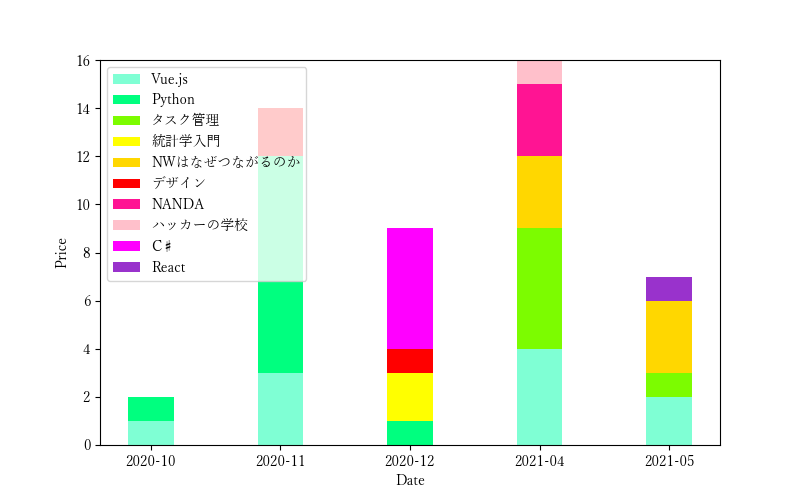
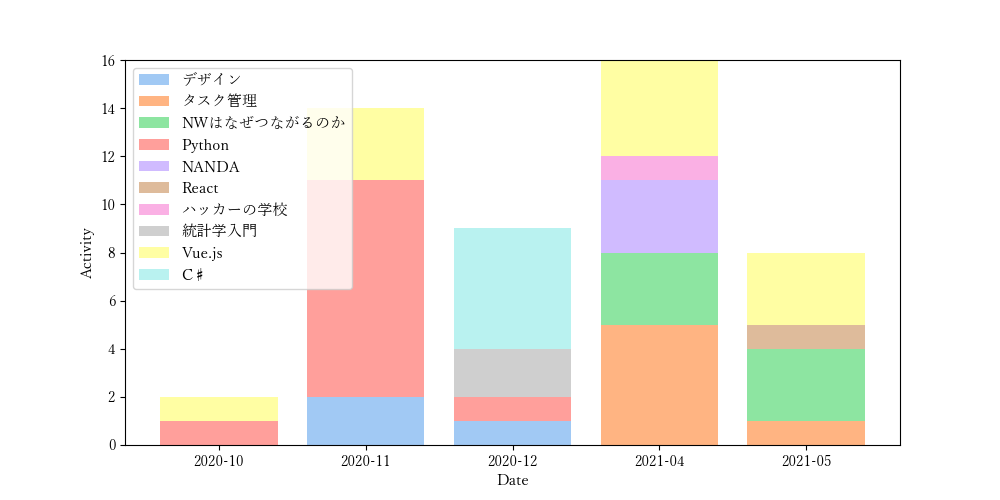
commit

diff --git a/app/static/main.js b/app/static/main.js
@@ -508,10 +508,15 @@ const router = new VueRouter({
             component: {
                 template: "#graph",
                 delimiters: ["[[", "]]"],
+                data: function () {
+                    return {
+                    }
+                },
                 methods: {
                     Axios: function () {
                         axios.post("http://localhost:8000/app/graph")
                             .then(res => {
+                                alert("OK!");
                             })
                             .catch(res => {
                                 test2(res);
@@ -519,6 +524,7 @@ const router = new VueRouter({
                     }
                 },
                 created: function () {
+
                 }
             }
         },

diff --git a/app/templates/index.html b/app/templates/index.html
@@ -381,8 +381,8 @@
     <!--11111111111111111111111111111111111111111111111111111111111111111111111111111111111111-->
     <script type="text/x-template" id="graph">
         <section>
-            <h3>グラフ出力</h3>
-            <img src="{% static 'output.png' %}" @click="Axios" class="graph"/>
+            <h3 @click="Axios" >グラフ表示</h3>
+            <img src="{% static 'output.png' %}" class="graph"/>
         </section>
     </script>
 

diff --git a/app/static/style.css b/app/static/style.css
@@ -46,7 +46,6 @@ h3 {
 }
 
 .graph{
-    width:720px;
-    height:450px;
-    cursor: pointer;
+    width:1000px;
+    height:500px;
 }

diff --git a/app/views.py b/app/views.py
@@ -1,6 +1,8 @@
 from django.shortcuts import render
 from django.http import JsonResponse, HttpResponse
 import matplotlib.pyplot as plt
+import matplotlib as mpl
+import seaborn as sns
 import pandas as pd
 import sqlite3 as sql3
 from datetime import datetime as dt
@@ -12,6 +14,7 @@ msg = "Hello World"
 color = ["#7fffd4", "#00ff7f", "#7cfc00", "#ffff00", "#ffd700", "#ff0000", "#ff1493",
          "#ffc0cb", "#ff00ff", "#9932cc", "#800080", "#4b0082", "#191970", "#0000ff", "#00ffff"]
 plt.rcParams["font.family"] = "Yu Mincho"
+mpl.use('Agg')
 
 
 def priorChange(tg):
@@ -444,33 +447,37 @@ def Graph(request):
     conn = sql3.connect(dbname)
     cur = conn.cursor()
     sql = "\
-        SELECT Task.id,Task.task,strftime('%Y-%m-01',Activity.date) AS date,count(Task.id) \
+        SELECT Task.id,Task.task,strftime('%Y-%m',Activity.date) AS date,count(Task.id) \
             FROM Task \
                 INNER JOIN Activity \
                     ON Task.id = Activity.task_id \
-                        GROUP BY strftime('%Y-%m-01',Activity.date),Task_id"
+                        GROUP BY strftime('%Y-%m',Activity.date),Task_id"
     box = list(cur.execute(sql))
     cur.close()
     conn.close()
-    df = pd.DataFrame(box, columns=["id", "task", "date", "num"])
-    for i in range(len(df["date"])):
-        df["date"][i] = pd.to_datetime(df["date"])[i].strftime('%Y-%m')
-    df = df.set_index("date")
-    tg1 = pd.DataFrame()
+    df = pd.DataFrame(box).set_index(2)
+    df.columns = ["id", "task", "num"]
     tName = list(set(df["task"]))
+    tg1 = pd.DataFrame()
     for i in range(len(tName)):
-        tg = pd.DataFrame(df[df["task"] == tName[i]])["num"]
+        tg = df[df["task"] == tName[i]]["num"]
         if(i == 0):
             tg1 = tg
         else:
-            tg1 = pd.concat([tg1, tg], axis=1).fillna(0).sort_index()
+            tg1 = pd.concat([tg1, tg], axis=1)
+    tg1 = tg1.fillna(0).sort_index()
     tg1.columns = tName
-    plt.figure(figsize=(8, 5))
+    plt.figure(figsize=(10, 5))
+    sns.set_palette('pastel')
+    # sns.set_palette('rocket')
+    x = tg1.index
     for i in range(len(tName)):
-        plt.bar(tg1.index, tg1[tName[i]], label=tName[i], bottom=tg1[tg1.columns[0:i]].sum(
-            axis=1), color=color[i], width=0.35)
-    plt.xlabel("Date")
-    plt.ylabel("Price")
-    plt.legend(loc="upper left")
-    plt.savefig(r'E:\desktop\task\app\static\output.png')
-    return HttpResponse("Graph")
+        tg = tName[i]
+        plt.bar(x, tg1[tName[i]], label=tg,
+                bottom=tg1[tg1.columns[0:i]].sum(axis=1))
+    plt.xlabel("Date", fontsize=11)
+    plt.ylabel("Activity", fontsize=11)
+    plt.legend(loc="upper left", fontsize=11)
+    File = r'E:\desktop\task\app\static\output.png'
+    plt.savefig(File)
+    return HttpResponse("Hello")
